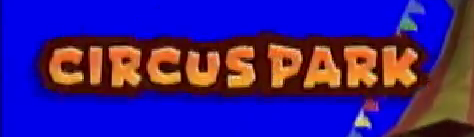
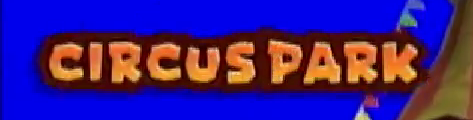
All world title images
Made used world title images 120 pixels tall and put names in array

diff --git a/src/graphics/Dashboard.java b/src/graphics/Dashboard.java
@@ -9,14 +9,13 @@ import java.awt.event.ActionListener;
 import java.awt.event.MouseEvent;
 import java.awt.event.MouseListener;
 import java.io.File;
-import java.awt.Image;
 import java.awt.image.BufferedImage;
 
 import javax.swing.GroupLayout;
 import javax.swing.JButton;
 import javax.swing.JFrame;
 import javax.swing.JPanel;
-import javax.imageio.ImageIO;
+import javax.imageio.*;
 
 import data.GameDataLookup;
 import data.GameState;
@@ -329,6 +328,16 @@ class LevelSelect extends JPanel{
 	private void worldButtonPressed(ActionEvent e, int i) { graphics.setWorldNum(i); graphics.update(); }
 	private void levelButtonPressed(ActionEvent e, int i) { graphics.setLevelNum(i); graphics.update(); } 
 
+    private static final String[] worldNamePNGs = {
+        "assets/misc/forest-village2.png",
+        "assets/misc/pirates-island.png",
+        "assets/misc/dino-mountain.png",
+        "assets/misc/blizzard-castle3.png",
+        "assets/misc/circus-park1.png",
+        "assets/misc/sand-ruin1.png",
+        "assets/misc/giant-palace2.png"
+    };
+
 	protected void paintComponent(Graphics g) {		
 		super.paintComponent(g);
 		
@@ -340,7 +349,13 @@ class LevelSelect extends JPanel{
 		g.drawString("Level "+(graphics.getLevelNum()+1), 30, 350);
 		if(graphics.getWorldNum() != -1 && graphics.getLevelNum() != -1) {
 			g.drawString(GameDataLookup.getFullLevelName(graphics.getWorldNum()*8 + graphics.getLevelNum()), 30, 400);
-            img = ImageIO.read(new File("assets/misc/forest-village2.png"));  // IOException
+            try{
+                //read image according to current world
+                img = ImageIO.read(new File(worldNamePNGs[graphics.getWorldNum()])); 
+            }
+            catch(Exception e){
+                    System.out.println("Could not open file");
+            }            
             g.drawImage(img, 30, 30, null);
 		}
 		
